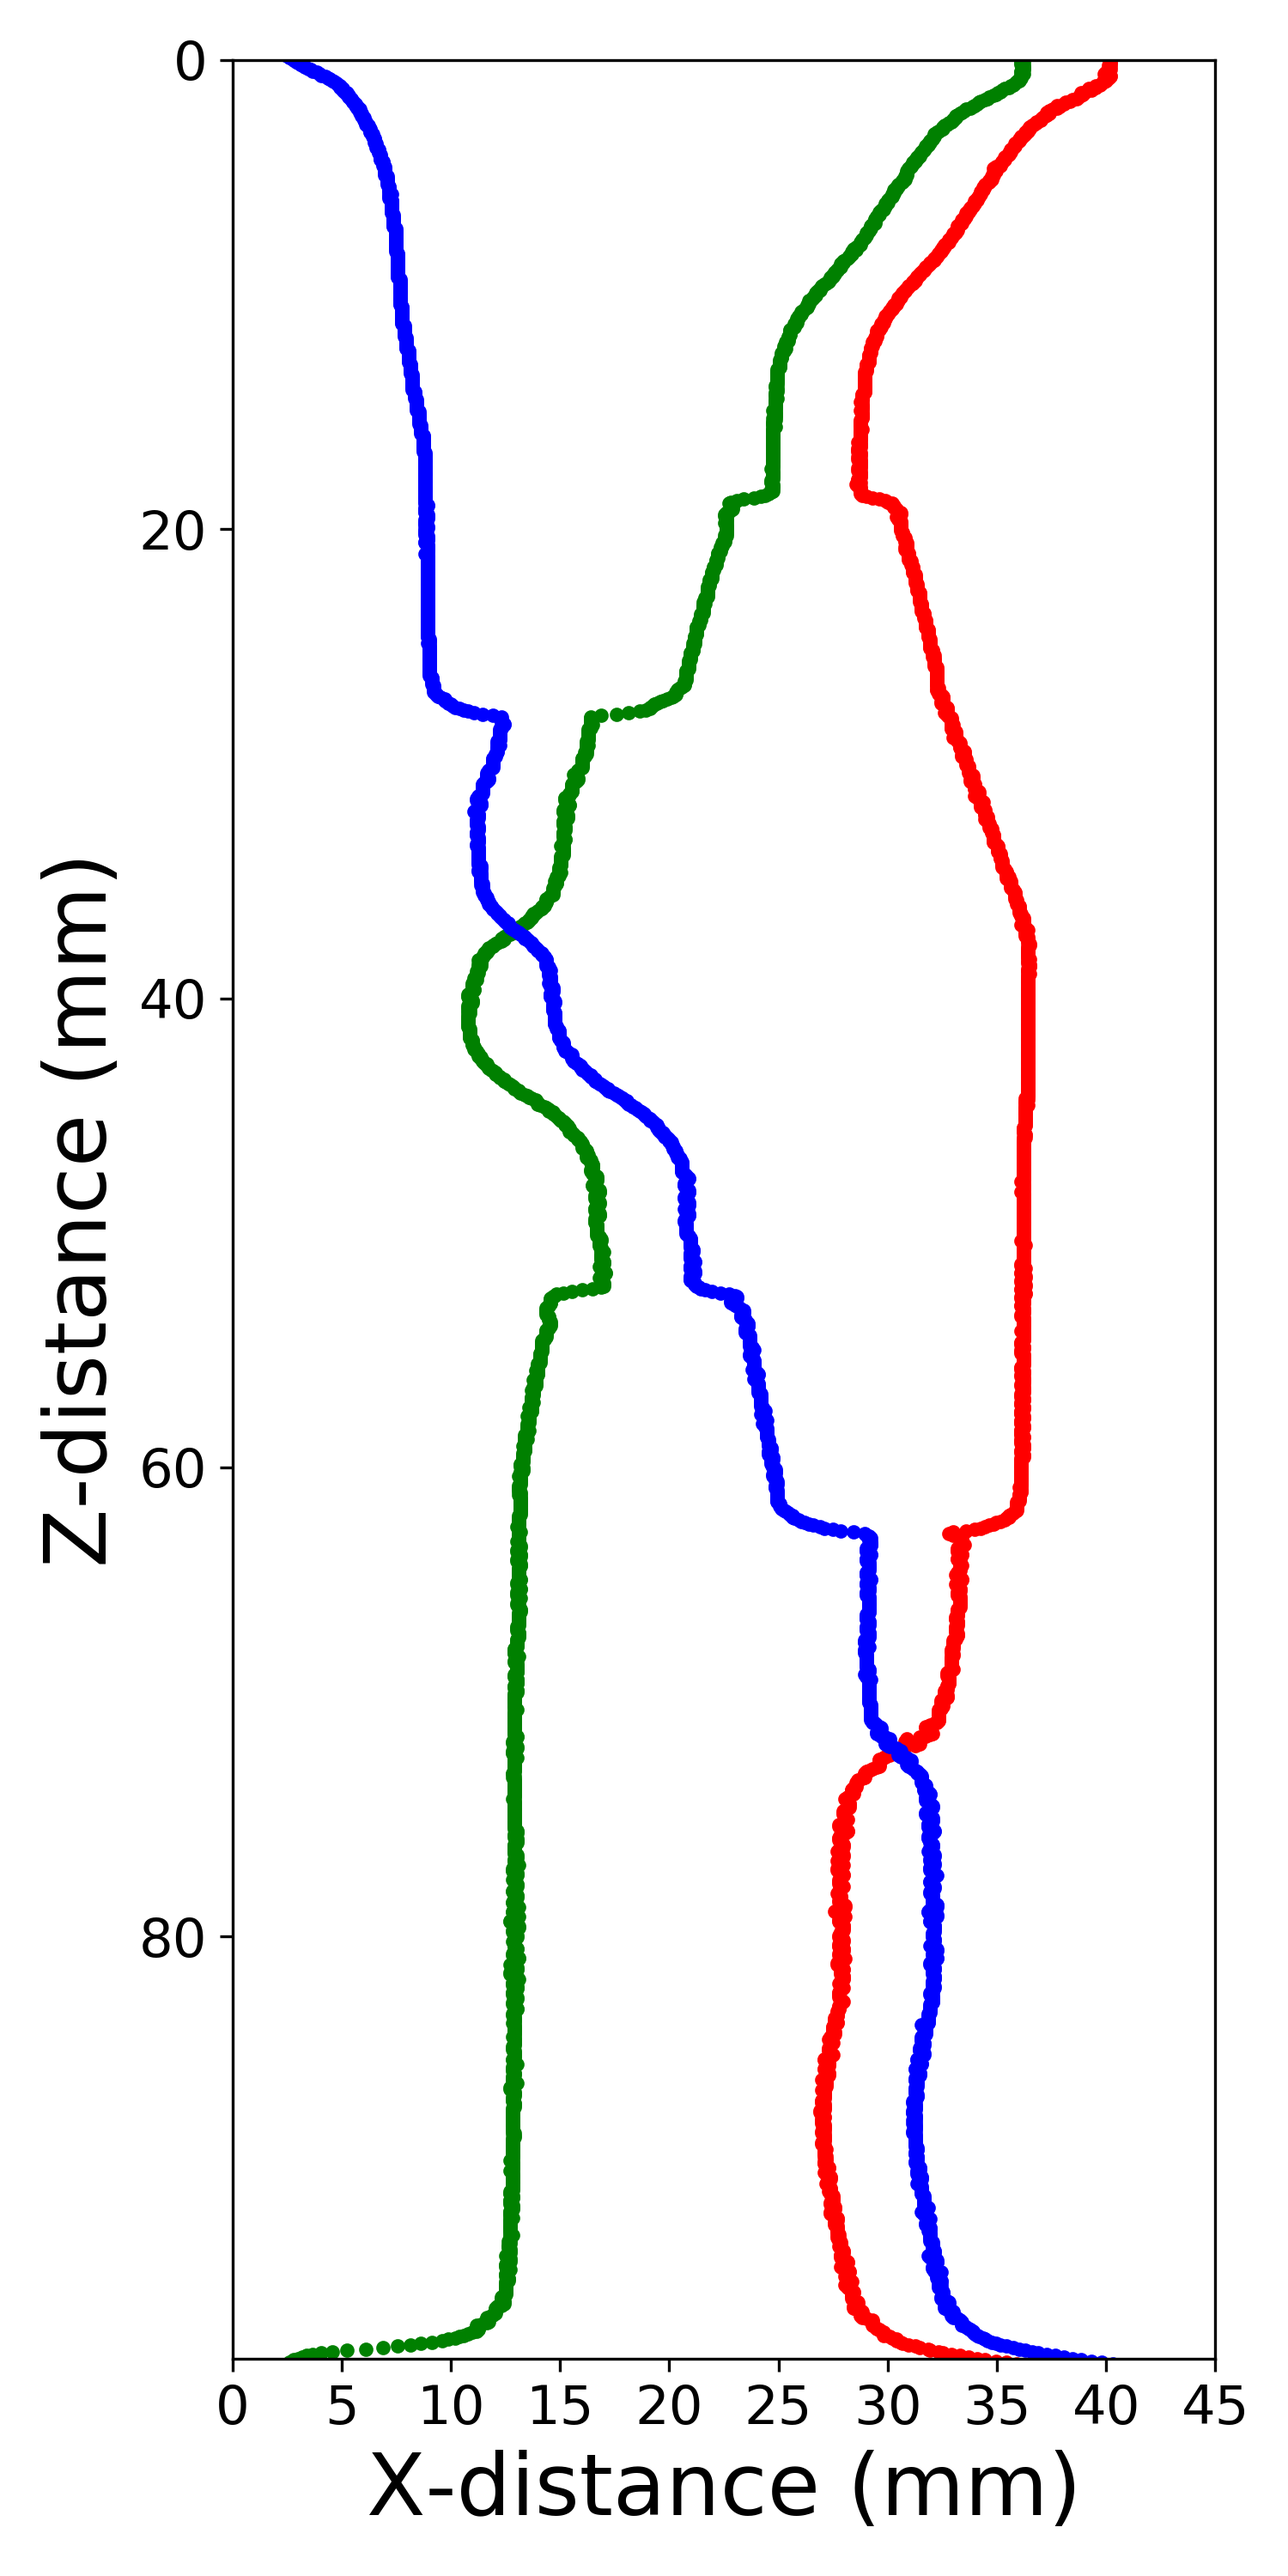
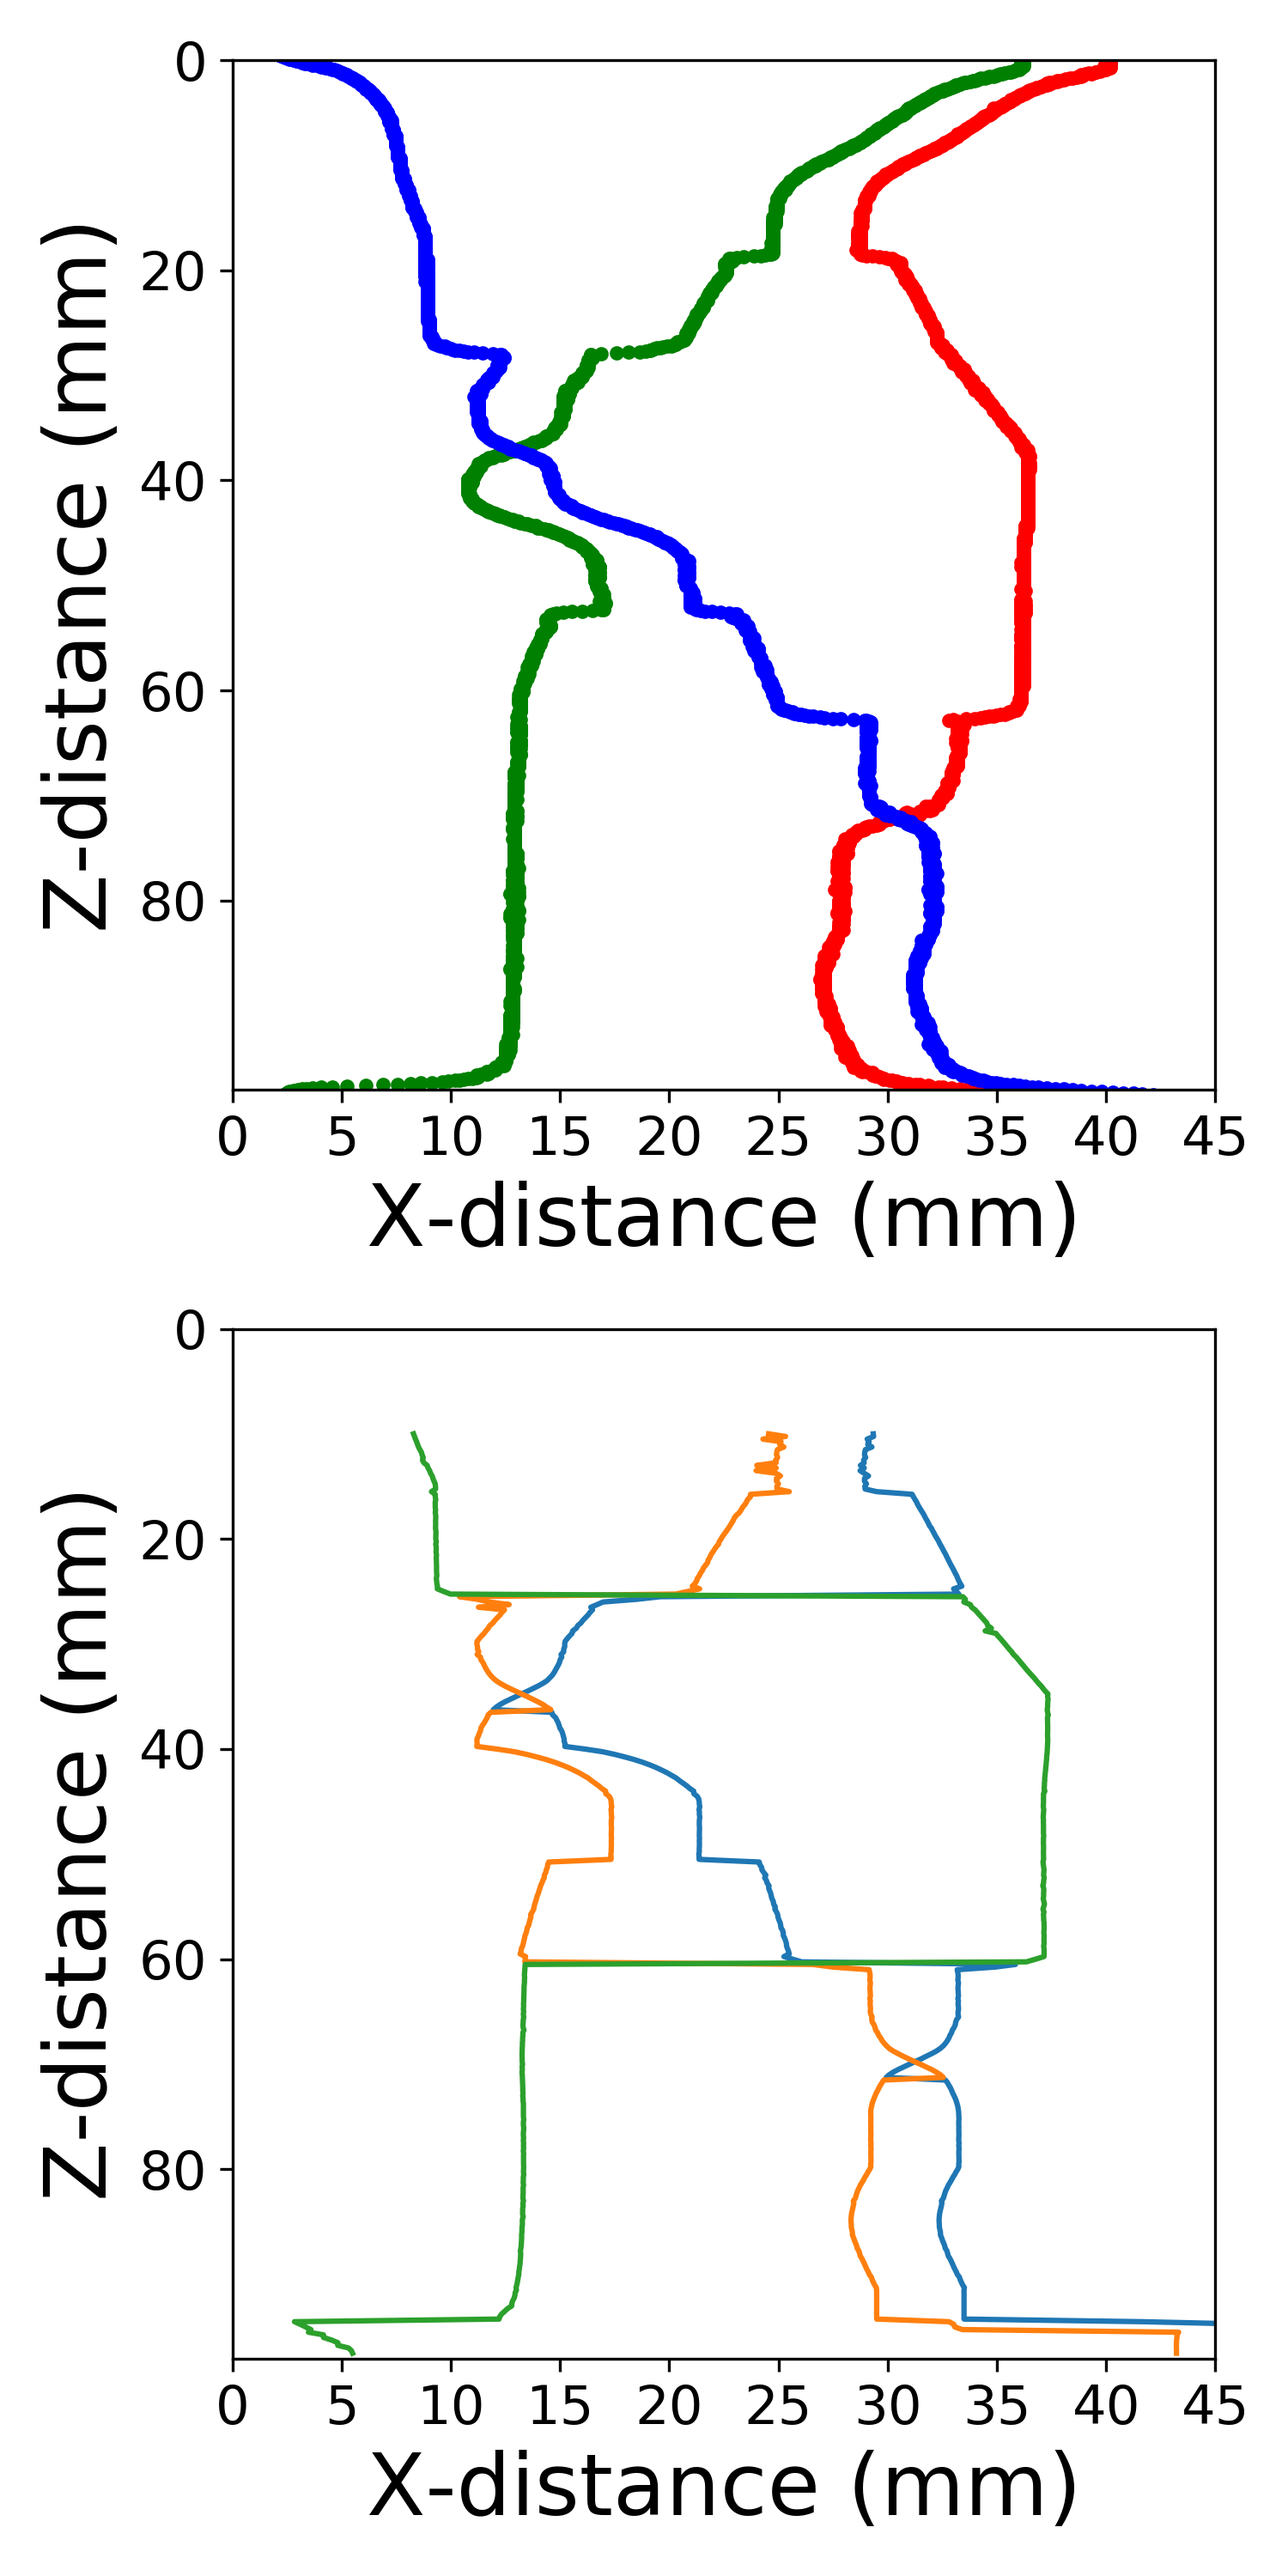
Pushing for the first time in a while, mostly Martin plot stuff added

diff --git a/COM_plotter.py b/COM_plotter.py
@@ -14,18 +14,21 @@ import glob
 import os
 from skimage import io
 import matplotlib.pyplot as plt
+from matplotlib.ticker import MultipleLocator
 from mpl_toolkits import mplot3d
 from stl import mesh
 from mpl_toolkits.mplot3d import Axes3D
 import cv2
 import pandas as pd
+import tables
+import math
 
 """directories and data info"""
-data_dir='/home/miles/Desktop/Python/data/float_tracker/ratchet3/'
+data_dir='/home/miles/Desktop/Python/data/float_tracker/foil/'
 file_list=sorted(glob.glob(data_dir+'COMs/*.out'), key=os.path.getmtime)
 img_file_list=sorted(glob.glob(data_dir+'frames/*.jpg'), key=os.path.getmtime)
 
-frame_ratio = 10
+frame_ratio = 1
 camera_FPS=30
 pixel_ratio=10.3  #pixels/mm
 speed = 35/20 #mm/second
@@ -40,6 +43,15 @@ def ReadCOM(frame_ratio):
         frame_data = np.loadtxt(file_list[x*frame_ratio])
         COM[:,:,x] = frame_data
     return COM
+
+def ReadMartin(xmult,xoff):
+    data = np.loadtxt('/home/miles/Desktop/Python/data/float_tracker/MartinTaichi/taichi_data_for_miles2.txt')
+    data = data*xmult
+    data = data + xoff  
+
+    return data
+
+    
         
 def CheckFrame(frame,channel):
     img = io.imread(img_file_list[frame])
@@ -137,7 +149,40 @@ def GenerateVideoCheck(FPS):
         out.write(img_array[i])
     out.release()
     
-def Plot(COM):
+def Plot():    
+    # plt.subplot(1,2,1)
+    
+    plt.scatter(-(COM[0,1,:].astype(int)/pixel_ratio)+60,(np.arange(0,len(COM[0,0,:])*timestep,timestep))-31*speed,color='r',marker='.')
+    plt.scatter(-(COM[1,1,:].astype(int)/pixel_ratio)+60,(np.arange(0,len(COM[0,0,:])*timestep,timestep))-31*speed, color='g',marker='.')
+    plt.scatter(-(COM[2,1,:].astype(int)/pixel_ratio)+60,(np.arange(0,len(COM[0,0,:])*timestep,timestep))-31*speed,color='b',marker='.')
+    
+    # plt.title('')
+    # plt.ylabel('Z-distance (mm)',fontsize = 24) 
+    # plt.xlabel('X-distance (mm)',fontsize = 24)
+    # plt.ylim(56*speed,0)
+    # plt.yticks(fontsize = 15)
+    # plt.xlim(0,45)
+    # plt.xticks(fontsize = 15)
+
+    
+    # plt.subplot(1,2,2)
+    
+    xmult = -9.9
+    xoff = 26.4
+    ymult = 4
+    yoff = 0
+    
+    martx1 = ReadMartin(xmult,xoff)[:,0]
+    martx2 = ReadMartin(xmult,xoff)[:,2]
+    martx3 = ReadMartin(xmult,xoff)[:,4]
+    # marty1 = ReadMartin(ymult,yoff)[:,1]
+    # marty2 = ReadMartin(ymult,yoff)[:,3]
+    # marty3 = ReadMartin(ymult,yoff)[:,5]
+
+    plt.plot(martx1,np.arange(0,len(martx1)/ymult,1/ymult)+yoff, color='tomato')
+    plt.plot(martx2,np.arange(0,len(martx2)/ymult,1/ymult)+yoff, color='limegreen')
+    plt.plot(martx3,np.arange(0,len(martx3)/ymult,1/ymult)+yoff, color='cornflowerblue')
+    
     plt.title('')
     plt.ylabel('Z-distance (mm)',fontsize = 24) 
     plt.xlabel('X-distance (mm)',fontsize = 24)
@@ -145,21 +190,42 @@ def Plot(COM):
     plt.yticks(fontsize = 15)
     plt.xlim(0,45)
     plt.xticks(fontsize = 15)
-    plt.scatter(-(COM[0,1,:].astype(int)/pixel_ratio)+60,(np.arange(0,len(COM[0,0,:])*timestep,timestep))-31*speed,color='r',marker='.')
-    plt.scatter(-(COM[1,1,:].astype(int)/pixel_ratio)+60,(np.arange(0,len(COM[0,0,:])*timestep,timestep))-31*speed, color='g',marker='.')
-    plt.scatter(-(COM[2,1,:].astype(int)/pixel_ratio)+60,(np.arange(0,len(COM[0,0,:])*timestep,timestep))-31*speed,color='b',marker='.')
-#    plt.plot(COM[0,1,:].astype(int),(np.arange(0,len(COM[0,0,:])*frame_ratio/camera_FPS,frame_ratio/camera_FPS)),color='r')
-#    plt.plot(COM[1,1,:].astype(int),(np.arange(0,len(COM[0,0,:])*frame_ratio/camera_FPS,frame_ratio/camera_FPS)), color='g')
-#    plt.plot(COM[2,1,:].astype(int),(np.arange(0,len(COM[0,0,:])*frame_ratio/camera_FPS,frame_ratio/camera_FPS)),color='b')    
-    
 
     fig = plt.gcf()
     fig.set_size_inches(5,10)
     plt.tight_layout()
-    plt.savefig(data_dir+'paper_fig2D_2.png', dpi=300)
-    plt.savefig('paper_fig2D_2.png', dpi=300)
+    plt.savefig('/home/miles/Desktop/Python/data/float_tracker/MartinTaichi/comparison.png', dpi=500)
     plt.show()
+  
+def PlotMartin():
+    xmult = -1
+    xoff = 0
+    ymult = 1
+    yoff = 0
+    martx1 = ReadMartin(xmult,xoff)[:,0]
+    martx2 = ReadMartin(xmult,xoff)[:,2]
+    martx3 = ReadMartin(xmult,xoff)[:,4]
+    # marty1 = ReadMartin(ymult,yoff)[:,1]
+    # marty2 = ReadMartin(ymult,yoff)[:,3]
+    # marty3 = ReadMartin(ymult,yoff)[:,5]
+
+    plt.plot(martx1,np.arange(0,len(martx1)/ymult,1/ymult)+yoff)
+    plt.plot(martx2,np.arange(0,len(martx2)/ymult,1/ymult)+yoff)
+    plt.plot(martx3,np.arange(0,len(martx3)/ymult,1/ymult)+yoff)
     
+    plt.title('')
+    plt.ylabel('Z-distance (mm)',fontsize = 24) 
+    plt.xlabel('X-distance (mm)',fontsize = 24)
+    # plt.ylim(56*speed,0)
+    # plt.yticks(fontsize = 15)
+    # plt.xlim(0,45)
+    # plt.xticks(fontsize = 15)
+
+    fig = plt.gcf()
+    fig.set_size_inches(10,10)
+    plt.tight_layout()
+    plt.savefig('/home/miles/Desktop/martinplot.png', dpi=500)
+    plt.show()
     
 def PlotAngle(COM,northpole,southpole):
     
@@ -199,43 +265,65 @@ def PlotAngleDisplacement(COM,northpole,southpole):
 
     """plotting grounds"""
     
-    plt.title('Experiment vs Theory: Both Directions')
-    plt.ylabel('Angular Displacement (radians)',fontsize = 24) 
-    plt.xlabel('Time (seconds)',fontsize = 24)
-    #plt.ylim(-3,3)
+    # plt.title('Experiment vs Theory: Both Directions')
+    # plt.ylabel('Angular Displacement (radians)',fontsize = 12) 
+    # plt.xlabel('Time (seconds)',fontsize = 12)
+    # plt.axis('off')
+    # plt.ylim(-1.5,3.5)
     
+    plt.yticks(np.arange(0,20,math.pi))
+
+    plt.tick_params(
+    axis='both',
+    which='both', 
+    direction = 'in',
+    bottom=True,
+    top=False,
+    labelleft=True,
+    labelbottom=True)
+    
+    plt.axes().xaxis.set_minor_locator(MultipleLocator(10))
+     
+    
+    #full cycles
+    # plt.scatter((np.arange(0,len(phi)*timestep,timestep)),phi,s=1)
+    
+    #3 cycles
+    xmin = int(102/timestep)
+    xmax = int(332/timestep)
+    plt.scatter((np.arange(0,len(phi)*timestep,timestep))[xmin:xmax]-xmin*timestep,phi[xmin:xmax]-phi[xmin],s=4)
 
 #    #ratchet
-#    xmin = int(102/timestep)
-#    xmax = int(145/timestep)
+    # xmin = int(102/timestep)
+    # xmax = int(145/timestep)
 #    plt.scatter((np.arange(0,len(phi)*timestep,timestep))[xmin:xmax]-xmin*timestep,phi[xmin:xmax]-phi[xmin])
     
     #ratchet vs martin
-    xmin = int(107/timestep)
-    xmax = int(123/timestep)
-    plt.scatter((np.arange(0,len(phi)*timestep,timestep))[xmin:xmax]-xmin*timestep,-1*phi[xmin:xmax]+phi[xmin], label="experiment: ratchet")
+    # xmin = int(107/timestep)
+    # xmax = int(123/timestep)
+    # plt.scatter((np.arange(0,len(phi)*timestep,timestep))[xmin:xmax]-xmin*timestep,-1*phi[xmin:xmax]+phi[xmin], label="experiment: ratchet",marker='.',s=4)
     
 #    #twist
-#    xmin2 = int(140/timestep)
-#    xmax2 = int(182/timestep)
-#    plt.scatter((np.arange(0,len(phi)*timestep,timestep))[xmin2:xmax2]-xmin2*timestep-xmin*timestep,phi[xmin2:xmax2]-phi[xmin2])
+    # xmin2 = int(140/timestep)
+    # xmax2 = int(182/timestep)
+    # plt.scatter((np.arange(0,len(phi)*timestep,timestep))[xmin2:xmax2]-xmin2*timestep-xmin*timestep,phi[xmin2:xmax2]-phi[xmin2],s=0.5)
     
     #twist vs martin
-    xmin2 = int(162/timestep)
-    xmax2 = int(178/timestep)
-    plt.scatter((np.arange(0,len(phi)*timestep,timestep))[xmin2:xmax2]-xmin2*timestep,phi[xmin2:xmax2]-phi[xmin2], label="experiment: twist")
+    # xmin2 = int(162/timestep)
+    # xmax2 = int(178/timestep)
+    # plt.scatter((np.arange(0,len(phi)*timestep,timestep))[xmin2:xmax2]-xmin2*timestep,phi[xmin2:xmax2]-phi[xmin2], label="experiment: twist",marker='.',s=4)
 
-    #martin 
-    martindata = pd.read_csv("/home/miles/Desktop/Python/data/float_tracker/Martin/Martin-numerical-results.csv")
-    channeltimeratio = 5
-    plt.scatter(martindata["x"]*channeltimeratio,martindata["rotating"], marker='o', label="theory: twist")
-    plt.scatter(martindata["x"]*channeltimeratio,martindata["ratcheting"], marker='o', label="theory: ratchet")
+    # #martin 
+    # martindata = pd.read_csv("/home/miles/Desktop/Python/data/float_tracker/Martin/Martin-numerical-results.csv")
+    # channeltimeratio = 5
+    # plt.scatter(martindata["x"]*channeltimeratio,martindata["rotating"], label="theory: twist",marker='.',s=4)
+    # plt.scatter(martindata["x"]*channeltimeratio,martindata["ratcheting"], label="theory: ratchet",marker='.',s=4)
 
-    plt.legend()
+    # plt.legend()
     fig = plt.gcf()
-    fig.set_size_inches(10,10)
+    fig.set_size_inches(4,4)
     plt.tight_layout()
-    plt.savefig(data_dir+'angleplotdisp_exptheorycomparisonboth.png', dpi=300)
+    plt.savefig(data_dir+'/paper/angleplotdisp_3cycles_4x4_s=4_dpi1200.png', dpi=1200)
     plt.show()
     
     
@@ -305,7 +393,7 @@ def PlotSTL():
 COM = ReadCOM(frame_ratio)
 #GenerateAllFramesCOMCheck(5,frame_ratio)
 #GenerateAllFramesAngleCheck(5,frame_ratio,0,2)
-#Plot(COM)
+Plot()
 #PlotAngle(COM,2,0)
 #PlotAngleDisplacement(COM,0,2)
 #Plot3D(COM,31*speed,87*speed,20,20,data_dir+'3dtaichi_20ang_20elev.png',300)
@@ -315,4 +403,4 @@ COM = ReadCOM(frame_ratio)
 #CheckFrame(0,0)
 #print(COM[:,:,338])
 #AngleCheck(0,0,2)
-GenerateVideoCheck(10)
+#GenerateVideoCheck(10)
